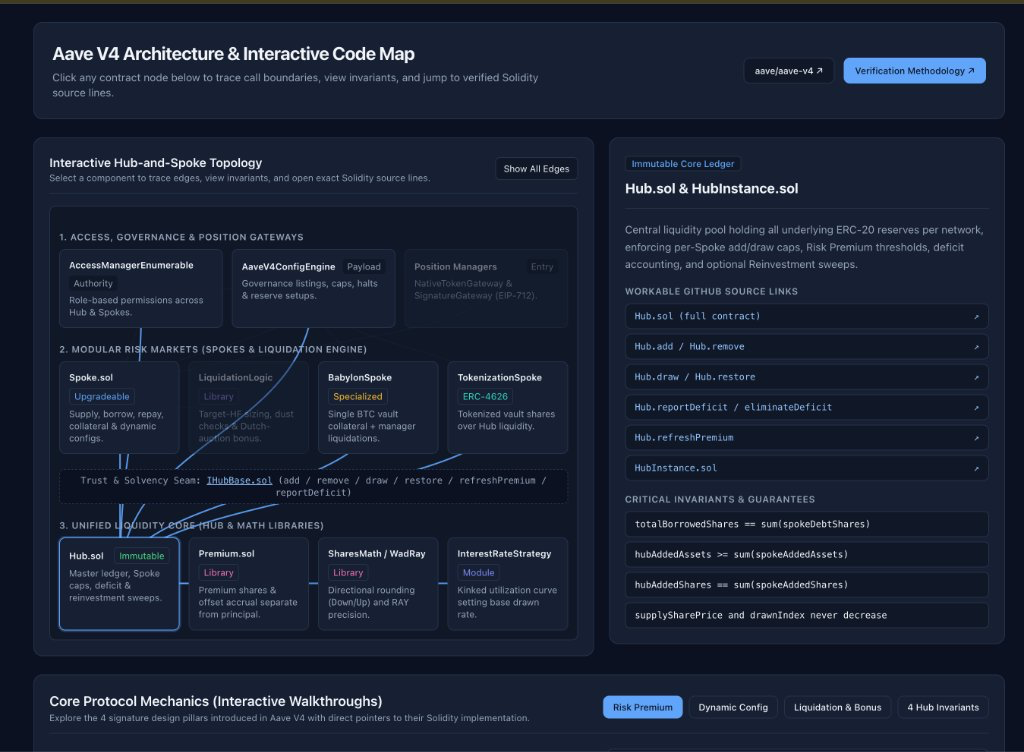
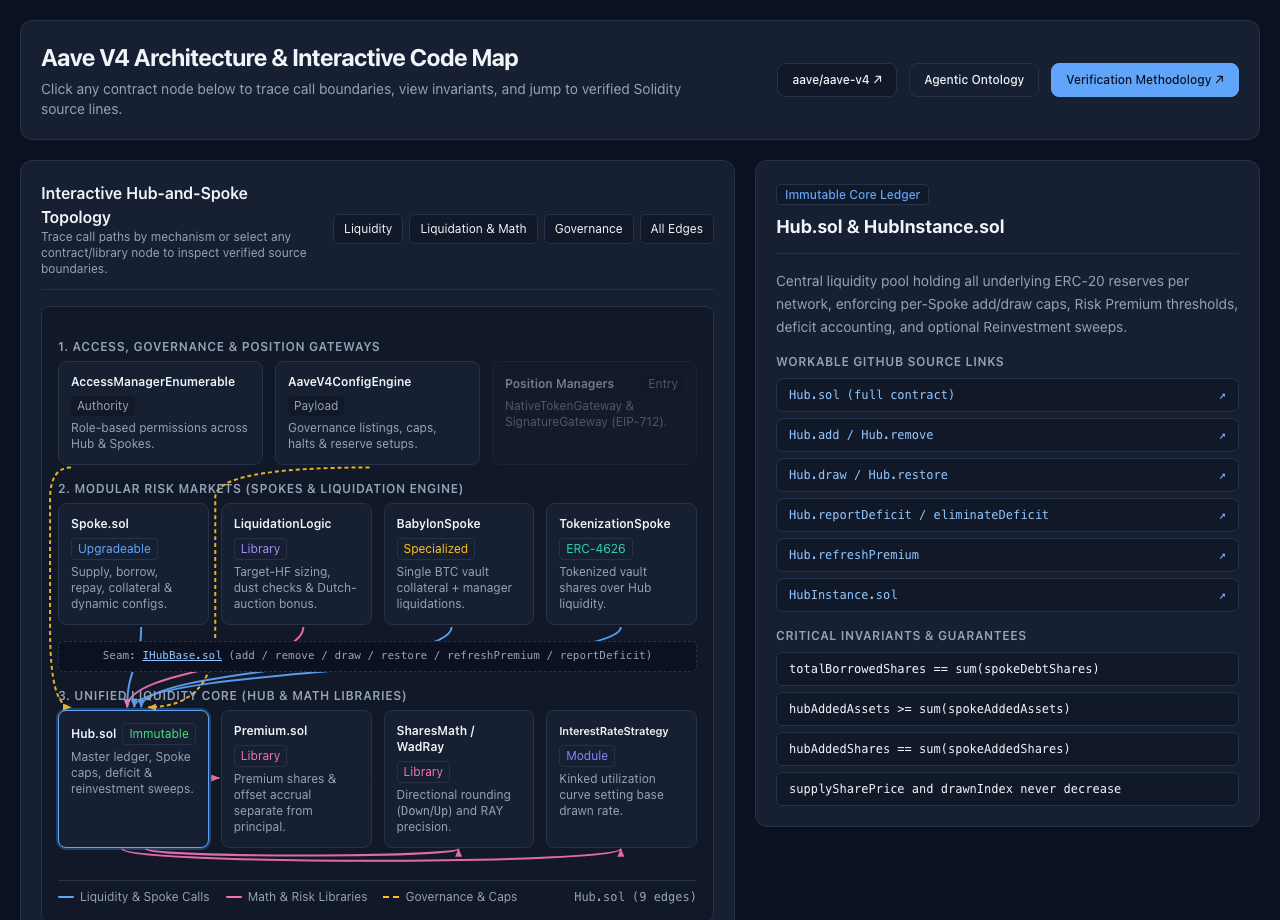
Refine Aave V4 topology: gutter/port SVG routing, directional arrowheads, flow filters, legend, and updated preview

diff --git a/index.html b/index.html
@@ -10,8 +10,8 @@
   <meta property="og:description" content="Interactive Hub-and-Spoke code map with line-verified links to aave/aave-v4 and a 5-stratum Assume-Guarantee verification pipeline." />
   <meta property="og:url" content="https://fredluv.github.io/aave-v4-verification-architecture/" />
   <meta property="og:image" content="https://fredluv.github.io/aave-v4-verification-architecture/preview.png" />
-  <meta property="og:image:width" content="1024" />
-  <meta property="og:image:height" content="752" />
+  <meta property="og:image:width" content="1280" />
+  <meta property="og:image:height" content="920" />
   <meta name="twitter:card" content="summary_large_image" />
   <meta name="twitter:title" content="Aave V4 Architecture — Interactive Explorer &amp; Code Map" />
   <meta name="twitter:description" content="Clickable Hub-and-Spoke topology, line-verified Solidity links, and Context-Sliced Assume-Guarantee verification." />
@@ -77,7 +77,8 @@
     .node-card.is-dimmed {
       opacity: 0.45;
     }
-    .tab-btn.is-active {
+    .tab-btn.is-active,
+    .flow-btn.is-active {
       background-color: var(--primary);
       color: var(--primary-foreground);
       border-color: var(--primary);
@@ -87,11 +88,11 @@
     }
   </style>
 </head>
-<body class="bg-[var(--background)] text-[var(--foreground)] antialiased m-0 p-6">
-  <div class="max-w-7xl mx-auto space-y-6">
+<body class="bg-[var(--background)] text-[var(--foreground)] antialiased m-0 p-5">
+  <div class="max-w-7xl mx-auto space-y-5">
 
     <!-- Header -->
-    <header class="bg-[var(--card)] border border-[var(--border)] rounded-xl p-6 flex flex-col lg:flex-row lg:items-center lg:justify-between gap-4">
+    <header class="bg-[var(--card)] border border-[var(--border)] rounded-xl p-5 flex flex-col lg:flex-row lg:items-center lg:justify-between gap-4">
       <div class="space-y-1.5">
         <h1 class="text-2xl font-bold tracking-tight">Aave V4 Architecture &amp; Interactive Code Map</h1>
         <p class="text-sm text-[var(--muted-foreground)] max-w-2xl">
@@ -119,23 +120,25 @@
 
       <!-- Left: Clickable Layered Architecture Diagram -->
       <div class="xl:col-span-7 bg-[var(--card)] border border-[var(--border)] rounded-xl p-5 space-y-4">
-        <div class="flex items-center justify-between gap-3 border-b border-[var(--border)] pb-3">
+        <div class="flex flex-col sm:flex-row sm:items-center sm:justify-between gap-3 border-b border-[var(--border)] pb-3">
           <div>
             <h2 class="text-base font-semibold">Interactive Hub-and-Spoke Topology</h2>
-            <p class="text-xs text-[var(--muted-foreground)]">Select a component to trace edges, view invariants, and open exact Solidity source lines.</p>
+            <p class="text-xs text-[var(--muted-foreground)]">Trace call paths by mechanism or select any contract/library node to inspect verified source boundaries.</p>
           </div>
-          <button id="resetFilterBtn" type="button"
-                  class="text-xs px-2.5 py-1.5 rounded-md border border-[var(--border)] bg-[var(--content)] hover:border-[var(--primary)]">
-            Show All Edges
-          </button>
+          <div class="flex flex-wrap items-center gap-1.5 text-xs shrink-0">
+            <button type="button" data-flow="liquidity" class="flow-btn px-2.5 py-1.5 rounded-md border border-[var(--border)] bg-[var(--content)] hover:border-[var(--primary)]">Liquidity</button>
+            <button type="button" data-flow="risk" class="flow-btn px-2.5 py-1.5 rounded-md border border-[var(--border)] bg-[var(--content)] hover:border-[var(--primary)]">Liquidation &amp; Math</button>
+            <button type="button" data-flow="gov" class="flow-btn px-2.5 py-1.5 rounded-md border border-[var(--border)] bg-[var(--content)] hover:border-[var(--primary)]">Governance</button>
+            <button id="resetFilterBtn" type="button" data-flow="all" class="flow-btn px-2.5 py-1.5 rounded-md border border-[var(--border)] bg-[var(--content)] hover:border-[var(--primary)]">All Edges</button>
+          </div>
         </div>
 
         <!-- Layered Clickable Map with Dynamic SVG Connectors -->
-        <div id="diagramStage" class="relative space-y-5 p-3 rounded-lg bg-[var(--content)] border border-[var(--border)] overflow-hidden">
-          <svg id="edgeOverlay" class="absolute inset-0 w-full h-full pointer-events-none" aria-hidden="true"></svg>
+        <div id="diagramStage" class="relative space-y-4 p-4 rounded-lg bg-[var(--content)] border border-[var(--border)] overflow-hidden">
+          <svg id="edgeOverlay" class="absolute inset-0 w-full h-full pointer-events-none z-10" aria-hidden="true"></svg>
 
           <!-- Layer 1: Users, Gateways & Governance -->
-          <div class="relative z-10 space-y-2">
+          <div class="relative z-20 space-y-1.5">
             <div class="text-xs font-semibold uppercase tracking-wider text-[var(--muted-foreground)]">
               1. Access, Governance &amp; Position Gateways
             </div>
@@ -165,7 +168,7 @@
           </div>
 
           <!-- Layer 2: Upgradeable / Modular Spokes -->
-          <div class="relative z-10 space-y-2">
+          <div class="relative z-20 space-y-1.5">
             <div class="text-xs font-semibold uppercase tracking-wider text-[var(--muted-foreground)]">
               2. Modular Risk Markets (Spokes &amp; Liquidation Engine)
             </div>
@@ -202,12 +205,12 @@
           </div>
 
           <!-- Boundary Strip -->
-          <div class="relative z-10 text-center py-1.5 px-3 rounded-md border border-dashed border-[var(--border)] bg-[var(--background)] text-xs text-[var(--muted-foreground)] font-mono">
-            Trust &amp; Solvency Seam: <a href="https://github.com/aave/aave-v4/blob/main/src/hub/interfaces/IHubBase.sol#L7" target="_blank" rel="noopener noreferrer" class="underline text-[var(--link)]">IHubBase.sol</a> (add / remove / draw / restore / refreshPremium / reportDeficit)
+          <div class="relative z-20 text-center py-1.5 px-3 rounded-md border border-dashed border-[var(--border)] bg-[var(--background)] text-[11px] text-[var(--muted-foreground)] font-mono">
+            Seam: <a href="https://github.com/aave/aave-v4/blob/main/src/hub/interfaces/IHubBase.sol#L7" target="_blank" rel="noopener noreferrer" class="underline text-[var(--link)]">IHubBase.sol</a> (add / remove / draw / restore / refreshPremium / reportDeficit)
           </div>
 
           <!-- Layer 3: Immutable Hub & Accounting Libraries -->
-          <div class="relative z-10 space-y-2">
+          <div class="relative z-20 space-y-1.5 pb-4">
             <div class="text-xs font-semibold uppercase tracking-wider text-[var(--muted-foreground)]">
               3. Unified Liquidity Core (Hub &amp; Math Libraries)
             </div>
@@ -235,12 +238,22 @@
               </div>
               <div class="node-card rounded-lg border border-[var(--border)] bg-[var(--card)] p-3" data-node="irs">
                 <div class="flex flex-wrap items-center justify-between gap-1.5">
-                  <span class="text-xs font-semibold break-all">InterestRateStrategy</span>
+                  <span class="text-[11px] font-semibold tracking-tight">InterestRateStrategy</span>
                   <span class="text-xs px-1.5 py-0.5 rounded border border-[var(--border)] shrink-0" style="color: var(--chart-6)">Module</span>
                 </div>
                 <p class="text-xs text-[var(--muted-foreground)] mt-1">Kinked utilization curve setting base drawn rate.</p>
               </div>
             </div>
+          </div>
+
+          <!-- Flow Legend -->
+          <div class="relative z-20 flex flex-wrap items-center justify-between gap-2 pt-2 border-t border-[var(--border)] text-xs text-[var(--muted-foreground)]">
+            <div class="flex flex-wrap items-center gap-4">
+              <span class="inline-flex items-center gap-1.5"><span class="inline-block w-4 h-0.5 rounded" style="background: var(--chart-1)"></span>Liquidity &amp; Spoke Calls</span>
+              <span class="inline-flex items-center gap-1.5"><span class="inline-block w-4 h-0.5 rounded" style="background: var(--chart-5)"></span>Math &amp; Risk Libraries</span>
+              <span class="inline-flex items-center gap-1.5"><span class="inline-block w-4 border-t-2 border-dashed" style="border-color: var(--chart-3)"></span>Governance &amp; Caps</span>
+            </div>
+            <span id="edgeStatusNote" class="font-mono"></span>
           </div>
         </div>
       </div>
@@ -635,17 +648,32 @@
     };
 
     const EDGES = [
-      ["access", "hub"], ["access", "spoke"], ["access", "config"],
-      ["config", "hub"], ["config", "spoke"], ["config", "babylon"], ["config", "tokenization"],
-      ["gateways", "spoke"],
-      ["spoke", "liquidation"], ["spoke", "hub"], ["babylon", "hub"], ["tokenization", "hub"],
-      ["hub", "premium"], ["hub", "shares"], ["hub", "irs"], ["premium", "shares"]
+      { from: "gateways", to: "spoke", type: "flow", stage: "liquidity", route: "v-cross" },
+      { from: "spoke", to: "hub", type: "flow", stage: "liquidity", route: "v-straight" },
+      { from: "babylon", to: "hub", type: "flow", stage: "liquidity", route: "v-cross" },
+      { from: "tokenization", to: "hub", type: "flow", stage: "liquidity", route: "v-cross" },
+
+      { from: "spoke", to: "liquidation", type: "math", stage: "risk", route: "h-adj" },
+      { from: "liquidation", to: "hub", type: "math", stage: "risk", route: "v-cross" },
+      { from: "hub", to: "premium", type: "math", stage: "risk", route: "h-adj" },
+      { from: "hub", to: "shares", type: "math", stage: "risk", route: "bot-arch-1" },
+      { from: "hub", to: "irs", type: "math", stage: "risk", route: "bot-arch-2" },
+      { from: "premium", to: "shares", type: "math", stage: "risk", route: "h-adj" },
+
+      { from: "access", to: "config", type: "gov", stage: "gov", route: "h-adj" },
+      { from: "access", to: "spoke", type: "gov", stage: "gov", route: "v-straight" },
+      { from: "access", to: "hub", type: "gov", stage: "gov", route: "outer-left" },
+      { from: "config", to: "spoke", type: "gov", stage: "gov", route: "v-cross" },
+      { from: "config", to: "babylon", type: "gov", stage: "gov", route: "v-cross" },
+      { from: "config", to: "tokenization", type: "gov", stage: "gov", route: "v-cross" },
+      { from: "config", to: "hub", type: "gov", stage: "gov", route: "gutter-0" }
     ];
 
     let selectedId = "hub";
+    let activeFlow = null;
 
     function renderInspector(nodeId) {
-      const data = NODES[nodeId];
+      const data = NODES[nodeId] || NODES.hub;
       const panel = document.getElementById("inspectorPanel");
       panel.innerHTML = `
         <div class="flex items-start justify-between gap-2 border-b border-[var(--border)] pb-3">
@@ -678,57 +706,169 @@
       `;
     }
 
-    function drawEdges(highlightId) {
+    function boxMetrics(el, rect) {
+      const r = el.getBoundingClientRect();
+      return {
+        left: r.left - rect.left,
+        right: r.right - rect.left,
+        top: r.top - rect.top,
+        bottom: r.bottom - rect.top,
+        cx: r.left - rect.left + r.width / 2,
+        cy: r.top - rect.top + r.height / 2
+      };
+    }
+
+    function routeEdgePath(edge, bA, bB, idx) {
+      const pad = 2;
+      const sameRow = Math.abs(bA.cy - bB.cy) < 28;
+      if (sameRow && edge.route === "h-adj") {
+        const goRight = bA.cx < bB.cx;
+        const x1 = goRight ? bA.right + pad : bA.left - pad;
+        const x2 = goRight ? bB.left - pad : bB.right + pad;
+        return `M ${x1} ${bA.cy} L ${x2} ${bB.cy}`;
+      }
+      if (sameRow && (edge.route === "bot-arch-1" || edge.route === "bot-arch-2")) {
+        const drop = edge.route === "bot-arch-2" ? 18 : 11;
+        const archY = Math.max(bA.bottom, bB.bottom) + drop;
+        const off = edge.route === "bot-arch-2" ? -12 : 12;
+        return `M ${bA.cx + off} ${bA.bottom + pad} C ${bA.cx + off} ${archY}, ${bB.cx} ${archY}, ${bB.cx} ${bB.bottom + pad}`;
+      }
+      if (edge.route === "outer-left") {
+        const spokeEl = document.querySelector(`[data-node="spoke"]`);
+        const stageRect = document.getElementById("diagramStage").getBoundingClientRect();
+        const spokeLeft = spokeEl ? boxMetrics(spokeEl, stageRect).left : Math.min(bA.left, bB.left);
+        const laneX = Math.max(5, spokeLeft - 9);
+        const y1 = bA.bottom + pad;
+        const y2 = bB.top - pad;
+        const midTop = spokeEl ? boxMetrics(spokeEl, stageRect).top - 4 : y1 + 20;
+        const midBot = spokeEl ? boxMetrics(spokeEl, stageRect).bottom + 4 : y2 - 20;
+        return `M ${bA.left + 12} ${y1} Q ${laneX} ${y1}, ${laneX} ${midTop} L ${laneX} ${midBot} Q ${laneX} ${y2}, ${bB.left + 12} ${y2}`;
+      }
+      if (edge.route === "gutter-0") {
+        const refLeft = document.querySelector(`[data-node="spoke"]`);
+        const refRight = document.querySelector(`[data-node="liquidation"]`);
+        if (refLeft && refRight) {
+          const stageRect = document.getElementById("diagramStage").getBoundingClientRect();
+          const mL = boxMetrics(refLeft, stageRect);
+          const mR = boxMetrics(refRight, stageRect);
+          if (Math.abs(mL.cy - mR.cy) < 28) {
+            const gx = (mL.right + mR.left) / 2;
+            const y1 = bA.bottom + pad;
+            const y2 = bB.top - pad;
+            const gTop = Math.min(mL.top, mR.top) - 6;
+            const gBot = Math.max(mL.bottom, mR.bottom) + 6;
+            return `M ${bA.cx - 8} ${y1} Q ${gx} ${y1}, ${gx} ${gTop} L ${gx} ${gBot} Q ${gx} ${y2}, ${bB.cx + 14} ${y2}`;
+          }
+        }
+      }
+      const down = bA.cy < bB.cy;
+      const y1 = down ? bA.bottom + pad : bA.top - pad;
+      const y2 = down ? bB.top - pad : bB.bottom + pad;
+      const nudge = ((idx % 3) - 1) * 7;
+      const x1 = bA.cx + nudge;
+      const x2 = bB.cx - nudge;
+      const midY = (y1 + y2) / 2;
+      return `M ${x1} ${y1} C ${x1} ${midY}, ${x2} ${midY}, ${x2} ${y2}`;
+    }
+
+    function colorForEdge(type) {
+      if (type === "math") return "var(--chart-5)";
+      if (type === "gov") return "var(--chart-3)";
+      return "var(--chart-1)";
+    }
+
+    function drawEdges() {
       const stage = document.getElementById("diagramStage");
       const svg = document.getElementById("edgeOverlay");
       const rect = stage.getBoundingClientRect();
       svg.setAttribute("viewBox", `0 0 ${rect.width} ${rect.height}`);
-      svg.innerHTML = "";
 
-      const connectedSet = new Set(highlightId ? [highlightId, ...(NODES[highlightId]?.connections || [])] : []);
+      svg.innerHTML = `
+        <defs>
+          <marker id="arr-flow" viewBox="0 0 10 10" refX="8" refY="5" markerWidth="5" markerHeight="5" orient="auto-start-reverse">
+            <path d="M 0 1.5 L 8.5 5 L 0 8.5 z" fill="var(--chart-1)" />
+          </marker>
+          <marker id="arr-math" viewBox="0 0 10 10" refX="8" refY="5" markerWidth="5" markerHeight="5" orient="auto-start-reverse">
+            <path d="M 0 1.5 L 8.5 5 L 0 8.5 z" fill="var(--chart-5)" />
+          </marker>
+          <marker id="arr-gov" viewBox="0 0 10 10" refX="8" refY="5" markerWidth="5" markerHeight="5" orient="auto-start-reverse">
+            <path d="M 0 1.5 L 8.5 5 L 0 8.5 z" fill="var(--chart-3)" />
+          </marker>
+          <marker id="arr-dim" viewBox="0 0 10 10" refX="8" refY="5" markerWidth="4.5" markerHeight="4.5" orient="auto-start-reverse">
+            <path d="M 0 1.5 L 8.5 5 L 0 8.5 z" fill="var(--border)" />
+          </marker>
+        </defs>
+      `;
+
+      const activeSet = new Set();
+      let activeCount = 0;
+
+      const edgeStates = EDGES.map(edge => {
+        let active = false;
+        if (activeFlow === "all") active = true;
+        else if (activeFlow) active = edge.stage === activeFlow;
+        else if (selectedId) active = edge.from === selectedId || edge.to === selectedId;
+        if (active) {
+          activeCount++;
+          activeSet.add(edge.from);
+          activeSet.add(edge.to);
+        }
+        return { edge, active };
+      });
+
+      document.querySelectorAll(".flow-btn").forEach(b => {
+        b.classList.toggle("is-active", b.dataset.flow === activeFlow);
+      });
+
       document.querySelectorAll(".node-card").forEach(card => {
         const id = card.dataset.node;
-        card.classList.toggle("is-selected", id === highlightId);
-        card.classList.toggle("is-dimmed", Boolean(highlightId) && !connectedSet.has(id));
+        const isSel = !activeFlow && id === selectedId;
+        const dim = activeFlow === "all" ? false : (activeSet.size > 0 && !activeSet.has(id));
+        card.classList.toggle("is-selected", isSel);
+        card.classList.toggle("is-dimmed", dim);
       });
 
-      EDGES.forEach(([a, b]) => {
-        const elA = document.querySelector(`[data-node="${a}"]`);
-        const elB = document.querySelector(`[data-node="${b}"]`);
+      const ordered = [...edgeStates.filter(e => !e.active), ...edgeStates.filter(e => e.active)];
+      ordered.forEach(({ edge, active }, idx) => {
+        const elA = document.querySelector(`[data-node="${edge.from}"]`);
+        const elB = document.querySelector(`[data-node="${edge.to}"]`);
         if (!elA || !elB) return;
-        const rA = elA.getBoundingClientRect();
-        const rB = elB.getBoundingClientRect();
-        const x1 = rA.left - rect.left + rA.width / 2;
-        const y1 = rA.top - rect.top + rA.height / 2;
-        const x2 = rB.left - rect.left + rB.width / 2;
-        const y2 = rB.top - rect.top + rB.height / 2;
-        const isActive = !highlightId || a === highlightId || b === highlightId;
+        const bA = boxMetrics(elA, rect);
+        const bB = boxMetrics(elB, rect);
         const path = document.createElementNS("http://www.w3.org/2000/svg", "path");
-        const midY = (y1 + y2) / 2;
-        path.setAttribute("d", `M ${x1} ${y1} C ${x1} ${midY}, ${x2} ${midY}, ${x2} ${y2}`);
+        path.setAttribute("d", routeEdgePath(edge, bA, bB, idx));
         path.setAttribute("fill", "none");
         path.setAttribute("class", "edge-line");
-        path.setAttribute("stroke", isActive && highlightId ? "var(--primary)" : "var(--border)");
-        path.setAttribute("stroke-width", isActive && highlightId ? "2" : "1.2");
-        path.setAttribute("opacity", isActive ? "0.9" : "0.2");
+        if (edge.type === "gov") path.setAttribute("stroke-dasharray", "4 3");
+        path.setAttribute("stroke", active ? colorForEdge(edge.type) : "var(--border)");
+        path.setAttribute("stroke-width", active ? "2" : "1");
+        path.setAttribute("opacity", active ? "0.92" : "0.14");
+        path.setAttribute("marker-end", active ? `url(#arr-${edge.type})` : "url(#arr-dim)");
         svg.appendChild(path);
       });
+
+      const statusEl = document.getElementById("edgeStatusNote");
+      if (statusEl) {
+        statusEl.textContent = activeFlow
+          ? `${activeFlow.toUpperCase()} (${activeCount} edges)`
+          : `${NODES[selectedId]?.title.split(" ")[0] || "Node"} (${activeCount} edges)`;
+      }
     }
 
     document.querySelectorAll(".node-card").forEach(card => {
       card.addEventListener("click", () => {
+        activeFlow = null;
         selectedId = card.dataset.node;
         renderInspector(selectedId);
-        drawEdges(selectedId);
+        drawEdges();
       });
     });
 
-    document.getElementById("resetFilterBtn").addEventListener("click", () => {
-      selectedId = null;
-      document.querySelectorAll(".node-card").forEach(c => {
-        c.classList.remove("is-selected", "is-dimmed");
+    document.querySelectorAll(".flow-btn").forEach(btn => {
+      btn.addEventListener("click", () => {
+        activeFlow = btn.dataset.flow;
+        drawEdges();
       });
-      drawEdges(null);
     });
 
     // Tabs
@@ -786,9 +926,9 @@
     renderInspector(selectedId);
     updateRp();
     updateLb();
-    requestAnimationFrame(() => drawEdges(selectedId));
-    window.addEventListener("resize", () => drawEdges(selectedId));
-    window.addEventListener("themechange", () => drawEdges(selectedId));
+    requestAnimationFrame(() => drawEdges());
+    window.addEventListener("resize", drawEdges);
+    window.addEventListener("themechange", drawEdges);
   </script>
 </body>
 </html>
